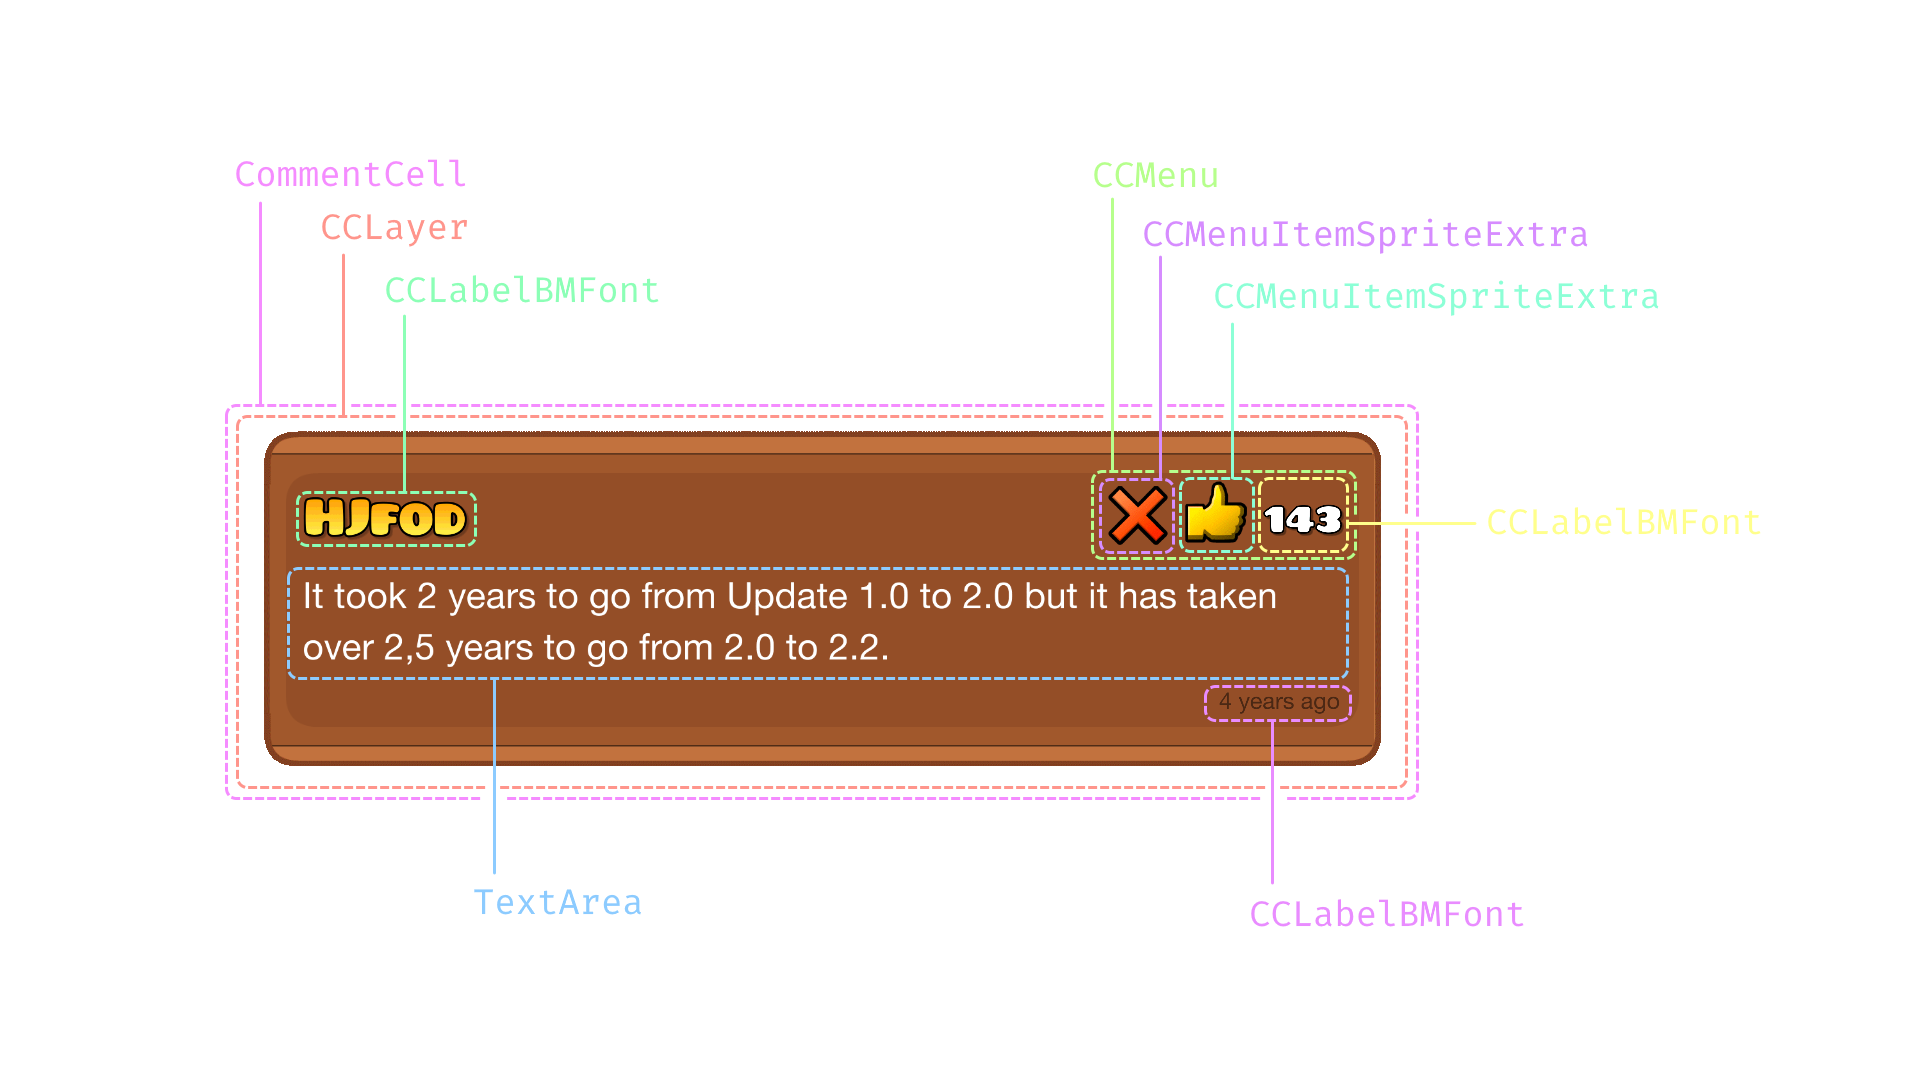
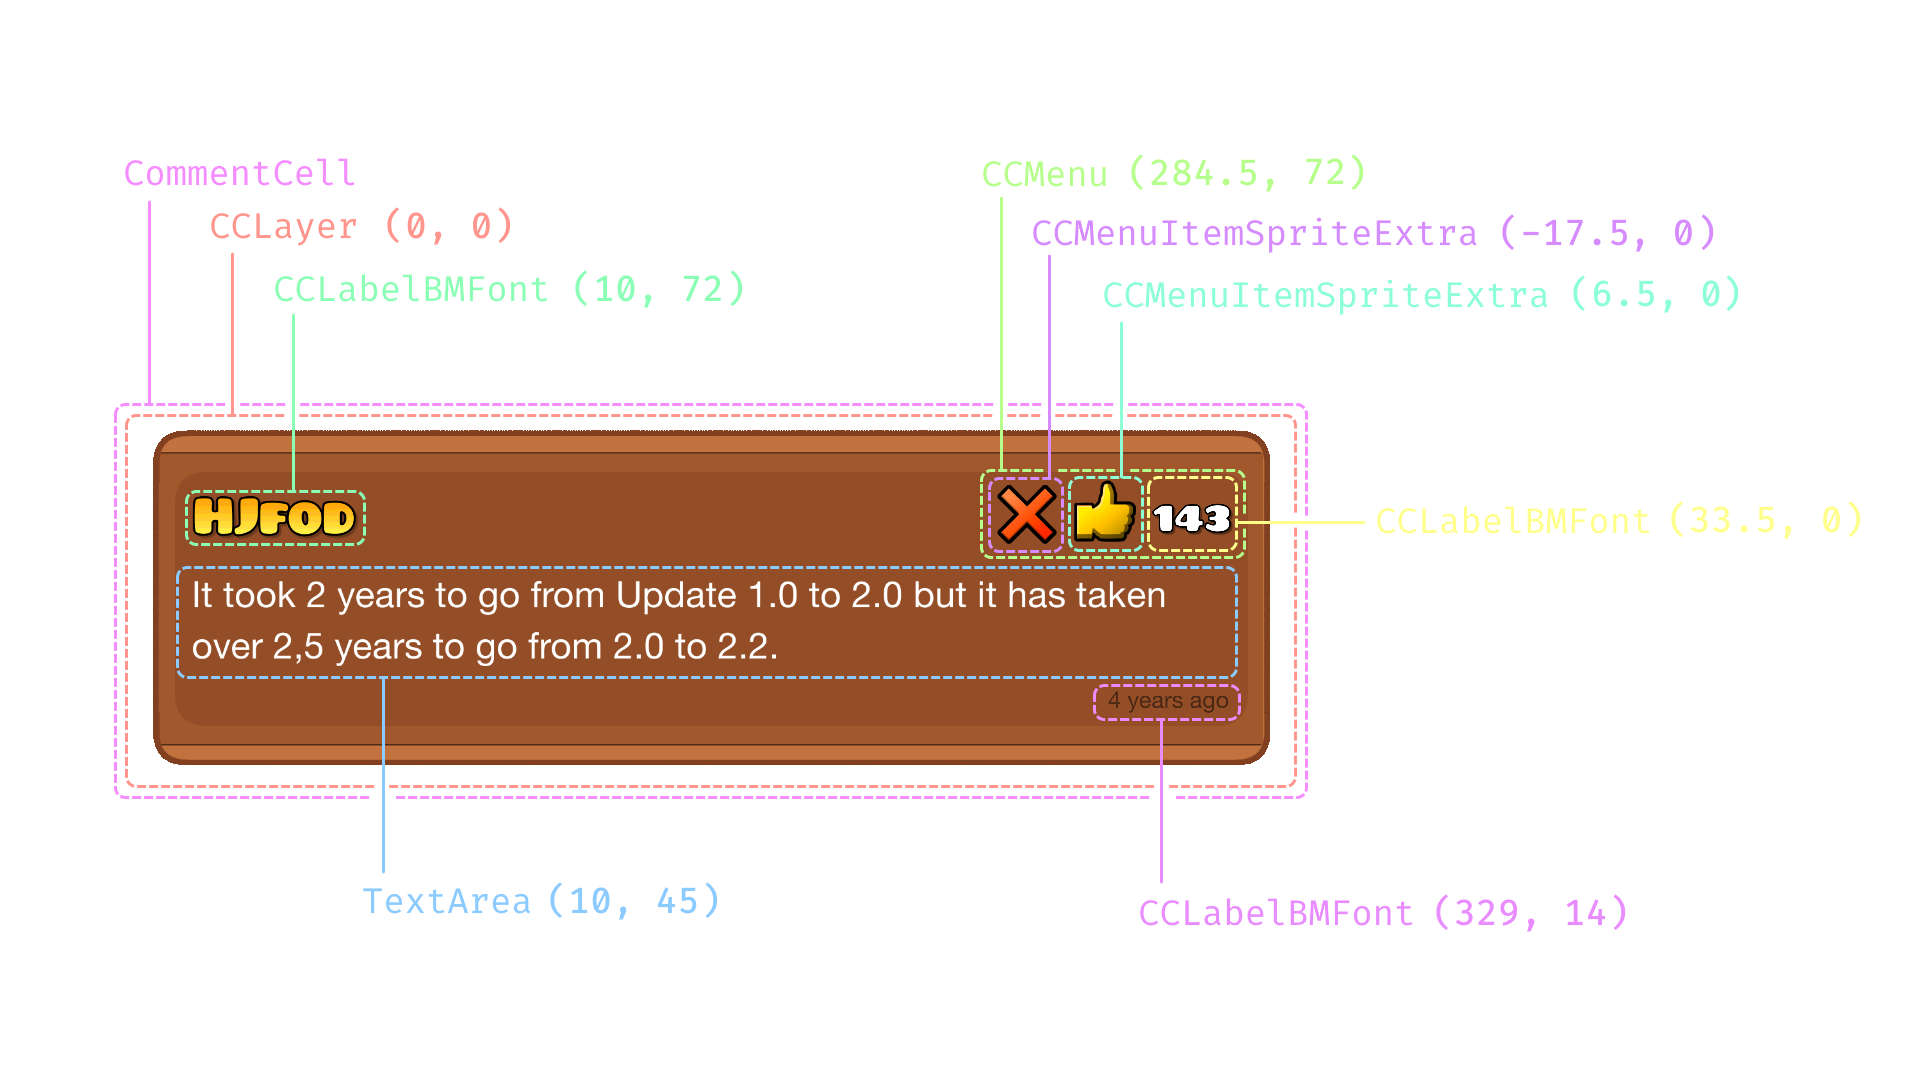
update comment graphic

diff --git a/docs/handbook/chap4.md b/docs/handbook/chap4.md
@@ -22,9 +22,13 @@ Nearly all nodes you see in GD aren't instances of the base `CCNode` class, but 
 
 As Cocos2d is a node-based framework, nearly all nodes are **aggregates** of other nodes. In other words, **most nodes simply consist of other nodes**. For example, a popup might consist of a node for the background, another node for the text, and maybe some extra nodes for buttons and decoration and such. You most likely **won't have to do any rendering yourself**; if you want to show some text in your node, just create a label and add it as a child to it.
 
-For example, here is the structure of a simple comment in GD:
+For example, here is **the structure of a comment** in GD:
 
 <img src="./imgs/CommentCell_dissected.png" alt="Image showing the structure of a CommentCell in GD" />
+
+As you can see, the `CommentCell` class consists wholly of other nodes. It does not do any of its own rendering. The position of the nodes (relative to the parent `CommentCell`) is marked in parenthesis; one important thing to note about Cocos2d is that unlike some other game frameworks, **higher Y-coordinate means higher on screen**.
+
+?> Please note that for the sake of simplicity, the above image contains **lies** (regarding positioning and exactly which node's child something is).
 
 ### Creating nodes
 
